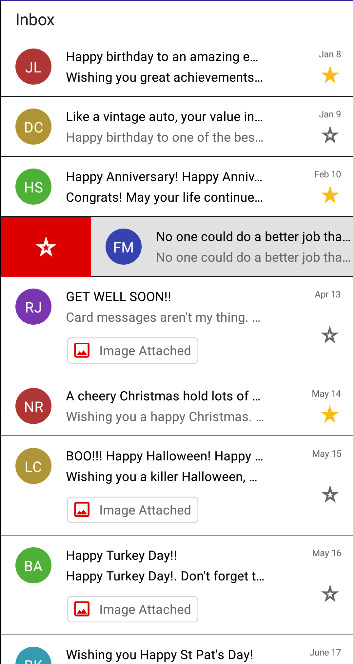
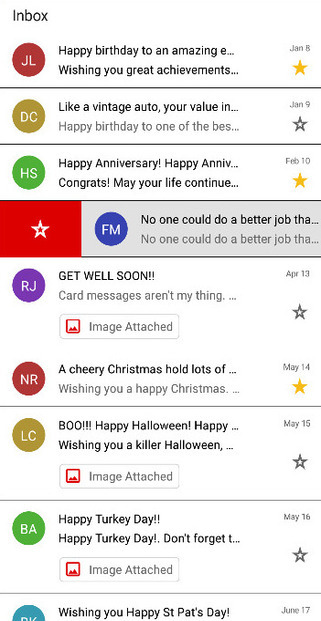
Reduced the image pixels

diff --git a/MAUI/ListView/swiping.md b/MAUI/ListView/swiping.md
@@ -541,7 +541,7 @@ private void ListView_PropertyChanged(object sender, PropertyChangedEventArgs e)
 
 Download the entire source code from GitHub [here](https://github.com/SyncfusionExamples/how-to-do-indefinite-swiping-in-.net-maui-listview).
 
-![Indefinite swipe in listview](Images/swiping/maui-listview-swipe-an-item-indefinetly.jpg)
+![Indefinite swipe in listview](Images/swiping/maui-listview-swipe-an-item-indefinitely.jpg)
 
 ## How to edit data by swiping
 
